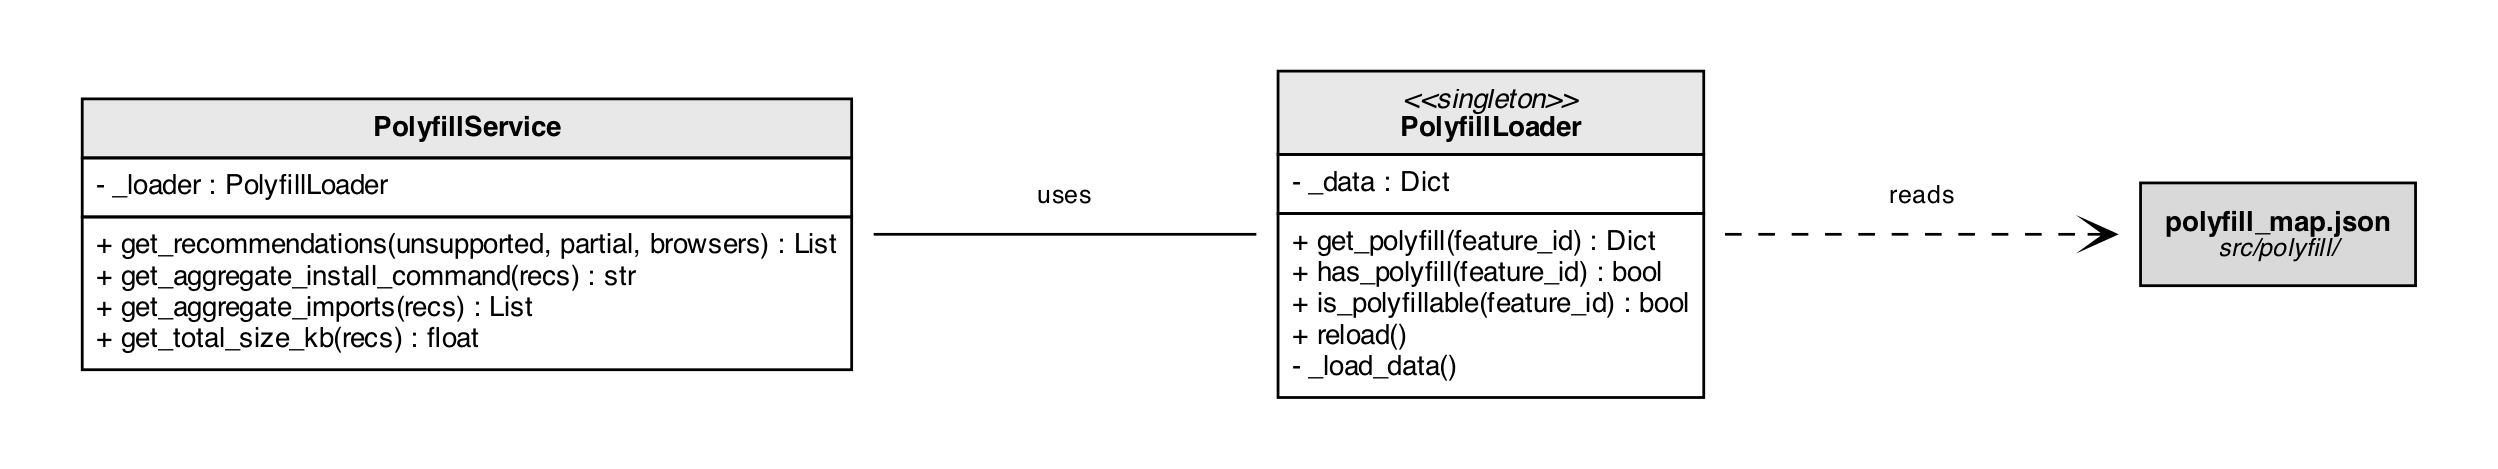
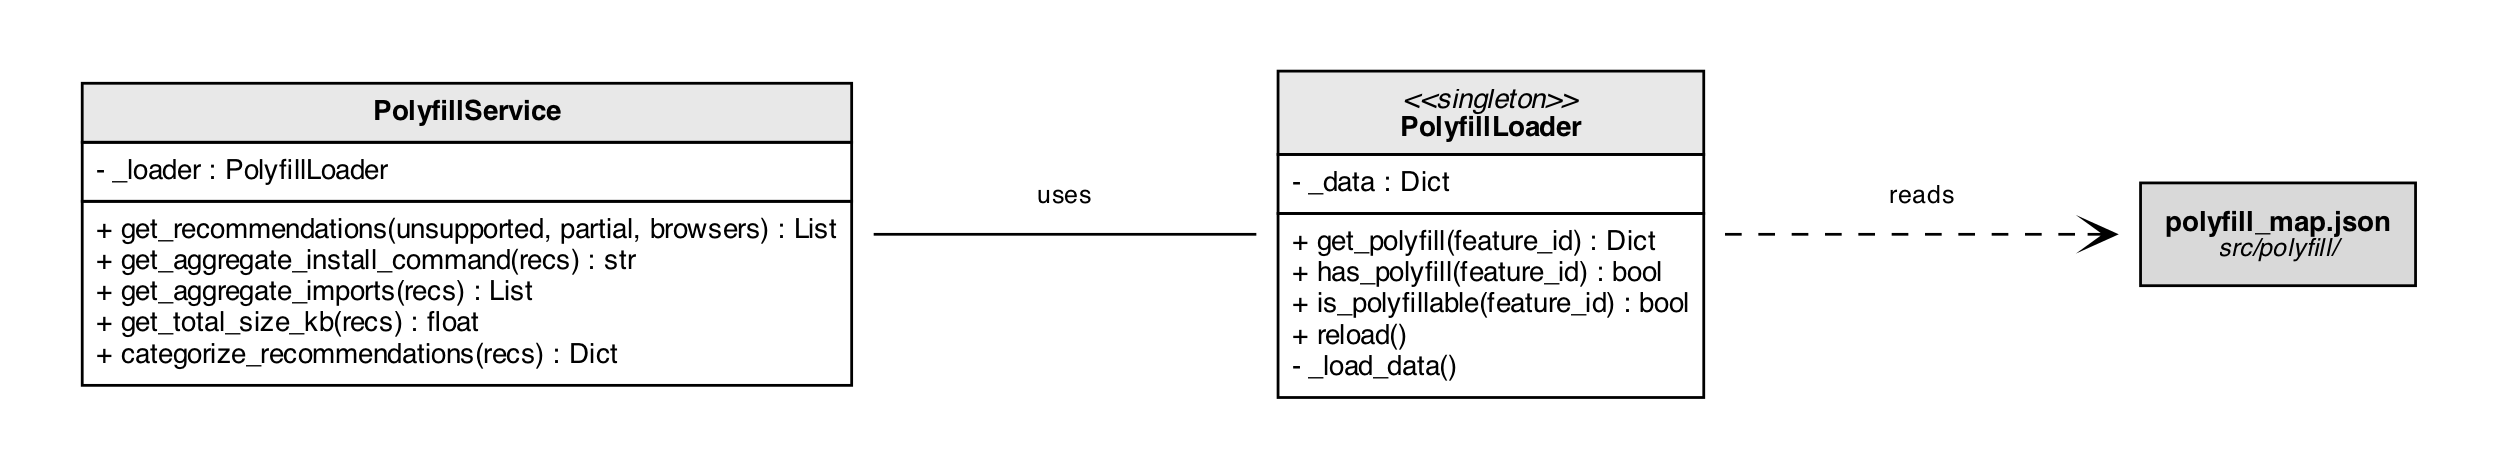
diagrams improved

Changed region(s): [[0.0312, 0.1493, 0.3435, 0.8358]]

diff --git a/docs/diagrams/scripts/generate_uml.py b/docs/diagrams/scripts/generate_uml.py
@@ -103,7 +103,8 @@ def build():
          '- _build_results_view()',
          '- _build_history_view()',
          '- _build_settings_view()',
-         '- _on_files_dropped(files)']))
+         '- _on_files_dropped(files)',
+         '- ...  (35 private methods total)']))
 
     g.node('ExportManager', class_box('ExportManager',
         ['+ parent : CTk'],
@@ -205,7 +206,8 @@ def build():
          '- _parse_js_files(files)',
          '- _check_compatibility(browsers) : Dict',
          '- _calculate_scores(results, browsers) : Dict',
-         '- _generate_report(results, scores, browsers) : Dict'],
+         '- _generate_report(results, scores, browsers) : Dict',
+         '- ...  (10 private methods total)'],
         stereotype='orchestrator'))
 
     # ── Services ────────────────────────────────────────
@@ -217,7 +219,8 @@ def build():
          '+ check_npm_update() : Dict',
          '+ download_npm_update(callback) : Dict',
          '+ get_database_info() : Dict',
-         '+ get_local_npm_version() : str']))
+         '+ get_local_npm_version() : str',
+         '+ ...  (8 public methods total)']))
 
     g.node('WebFeaturesManager', class_box('WebFeaturesManager',
         ['- _data : Dict',
@@ -225,7 +228,8 @@ def build():
         ['+ download() : bool',
          '+ has_data() : bool',
          '+ get_baseline_status(feature_id) : Dict',
-         '+ get_baseline_summary(features) : Dict']))
+         '+ get_baseline_summary(features) : Dict',
+         '+ ...  (5 public methods total)']))
 
     g.node('ConfigManager', class_box('ConfigManager',
         ['- _config : Dict',
@@ -236,7 +240,8 @@ def build():
          '+ ai_config : Dict (property)',
          '+ get(key, default) : Any',
          '+ to_dict() : Dict',
-         '+ create_default_config(dir) : str']))
+         '+ create_default_config(dir) : str',
+         '+ ...  (8 public methods total)']))
 
     g.node('AIFixService', class_box('AIFixService',
         ['- _api_key : str',
@@ -247,14 +252,16 @@ def build():
          '+ get_fix_suggestions(features, type, browsers) : List',
          '- _build_prompt(features, type) : str',
          '- _call_api(prompt) : str',
-         '- _parse_response(raw, features) : List']))
+         '- _parse_response(raw, features) : List',
+         '- ...  (5 private methods total)']))
 
     g.node('PolyfillService', class_box('PolyfillService',
         ['- _loader : PolyfillLoader'],
         ['+ get_recommendations(unsupported, partial, browsers) : List',
          '+ get_aggregate_install_command(recs) : str',
          '+ get_aggregate_imports(recs) : List',
-         '+ get_total_size_kb(recs) : float']))
+         '+ get_total_size_kb(recs) : float',
+         '+ categorize_recommendations(recs) : Dict']))
 
     g.node('PolyfillLoader', class_box('PolyfillLoader',
         ['- _data : Dict'],
@@ -277,7 +284,8 @@ def build():
          '+ parse_multiple_files(paths) : Set[str]',
          '+ get_detailed_report() : Dict',
          '+ get_statistics() : Dict',
-         '+ validate_html(content) : bool']))
+         '+ validate_html(content) : bool',
+         '- ...  (17 private methods total)']))
 
     g.node('CSSParser', class_box('CSSParser',
         ['+ features_found : Set[str]',
@@ -288,7 +296,8 @@ def build():
          '+ parse_multiple_files(paths) : Set[str]',
          '+ get_detailed_report() : Dict',
          '+ get_statistics() : Dict',
-         '+ validate_css(content) : bool']))
+         '+ validate_css(content) : bool',
+         '- ...  (5 private methods total)']))
 
     g.node('JSParser', class_box('JavaScriptParser',
         ['+ features_found : Set[str]',
@@ -299,7 +308,8 @@ def build():
          '+ parse_multiple_files(paths) : Set[str]',
          '+ get_detailed_report() : Dict',
          '+ get_statistics() : Dict',
-         '+ validate_javascript(content) : bool']))
+         '+ validate_javascript(content) : bool',
+         '- ...  (13 private methods total)']))
 
     g.node('CustomRulesLoader', class_box('CustomRulesLoader',
         ['- _css_rules : Dict',
@@ -318,7 +328,8 @@ def build():
         ['+ analyze(features, browsers) : Dict',
          '- _analyze_browser(features, browser, ver) : Dict',
          '- _calculate_overall_score(scores) : float',
-         '- _calculate_severity(status, total) : str']))
+         '- _calculate_severity(status, total) : str',
+         '- ...  (6 private methods total)']))
 
     g.node('CompatibilityScorer', class_box('CompatibilityScorer',
         ['+ browser_weights : Dict',
@@ -338,7 +349,8 @@ def build():
          '+ check_support(feature, browser, ver) : str',
          '+ get_all_features() : List[str]',
          '+ get_feature_info(feature_id) : Dict',
-         '+ get_browser_versions(browser) : List[str]'],
+         '+ get_browser_versions(browser) : List[str]',
+         '- ...  (5 private methods total)'],
         stereotype='singleton'))
 
     # ── Database Layer ──────────────────────────────────
@@ -350,7 +362,8 @@ def build():
          '+ get_analysis_by_id(id) : Analysis',
          '+ delete_analysis(id) : bool',
          '+ clear_all() : int',
-         '+ get_count(file_type) : int']))
+         '+ get_count(file_type) : int',
+         '+ ...  (7 public methods total)']))
 
     g.node('StatisticsService', class_box('StatisticsService',
         ['- _conn : Connection'],
@@ -362,7 +375,8 @@ def build():
          '+ get_top_problematic_features(limit) : List',
          '+ get_grade_distribution() : Dict',
          '+ get_file_type_distribution() : Dict',
-         '+ get_summary_statistics() : Dict']))
+         '+ get_summary_statistics() : Dict',
+         '+ ...  (13 public methods total)']))
 
     # ── Data Models ─────────────────────────────────────
 

diff --git a/docs/diagrams/scripts/generate_sub_analysis.py b/docs/diagrams/scripts/generate_sub_analysis.py
@@ -74,12 +74,14 @@ def build():
          '+ scorer : CompatibilityScorer',
          '+ all_features : Set[str]'],
         ['+ run_analysis(html, css, js, browsers) : Dict',
+         '+ ...  (2 public methods total)',
          '- _parse_html_files(files)',
          '- _parse_css_files(files)',
          '- _parse_js_files(files)',
          '- _check_compatibility(browsers) : Dict',
          '- _calculate_scores(results, browsers) : Dict',
-         '- _generate_report(results, scores, browsers) : Dict'],
+         '- _generate_report(results, scores, browsers) : Dict',
+         '- ...  (10 private methods total)'],
         stereotype='orchestrator'))
 
     # ── Row 3: Parsers + Engine ─────────────────────────
@@ -87,28 +89,36 @@ def build():
     g.node('HTMLParser', cn('HTMLParser',
         ['+ features_found : Set[str]'],
         ['+ parse_file(path) : Set[str]',
-         '+ parse_string(html) : Set[str]']))
+         '+ parse_string(html) : Set[str]',
+         '+ ...  (6 public methods total)',
+         '- ...  (17 private methods total)']))
 
     g.node('CSSParser', cn('CSSParser',
         ['+ features_found : Set[str]'],
         ['+ parse_file(path) : Set[str]',
-         '+ parse_string(css) : Set[str]']))
+         '+ parse_string(css) : Set[str]',
+         '+ ...  (6 public methods total)',
+         '- ...  (5 private methods total)']))
 
     g.node('JSParser', cn('JavaScriptParser',
         ['+ features_found : Set[str]'],
         ['+ parse_file(path) : Set[str]',
-         '+ parse_string(js) : Set[str]']))
+         '+ parse_string(js) : Set[str]',
+         '+ ...  (6 public methods total)',
+         '- ...  (13 private methods total)']))
 
     g.node('CompatibilityAnalyzer', cn('CompatibilityAnalyzer',
         ['+ database : CanIUseDatabase'],
         ['+ analyze(features, browsers) : Dict',
-         '- _calculate_severity(status, total) : str']))
+         '- _calculate_severity(status, total) : str',
+         '- ...  (6 private methods total)']))
 
     g.node('CompatibilityScorer', cn('CompatibilityScorer',
         ['+ browser_weights : Dict',
          '+ STATUS_SCORES : Dict'],
         ['+ calculate_simple_score(status) : float',
-         '+ calculate_weighted_score(status) : Dict']))
+         '+ calculate_weighted_score(status) : Dict',
+         '+ ...  (3 public methods total)']))
 
     # ── Row 4: Database ─────────────────────────────────
 
@@ -117,7 +127,9 @@ def build():
          '+ loaded : bool'],
         ['+ load() : bool',
          '+ check_support(feature, browser, ver) : str',
-         '+ get_feature_info(feature_id) : Dict'],
+         '+ get_feature_info(feature_id) : Dict',
+         '+ ...  (6 public methods total)',
+         '- ...  (5 private methods total)'],
         stereotype='singleton'))
 
     # ═══ RELATIONSHIPS ═══════════════════════════════════

diff --git a/docs/diagrams/scripts/generate_sub_parsers.py b/docs/diagrams/scripts/generate_sub_parsers.py
@@ -59,7 +59,8 @@ def build():
          '- _detect_attributes(soup)',
          '- _detect_attribute_values(soup)',
          '- _detect_special_patterns(soup)',
-         '- _find_unrecognized_patterns(soup)']))
+         '- _find_unrecognized_patterns(soup)',
+         '- ...  (17 private methods total)']))
 
     g.node('CSSParser', cn('CSSParser',
         ['+ features_found : Set[str]',
@@ -75,7 +76,8 @@ def build():
          '- _extract_components(rules) : Tuple',
          '- _build_matchable_text(decl, rules, sel) : str',
          '- _detect_features(css_content)',
-         '- _find_unrecognized_patterns_structured(decl, rules)']))
+         '- _find_unrecognized_patterns_structured(decl, rules)',
+         '- ...  (5 private methods total)']))
 
     g.node('JSParser', cn('JavaScriptParser',
         ['+ features_found : Set[str]',
@@ -95,7 +97,8 @@ def build():
          '- _detect_ast_api_features(root, src)',
          '- _build_matchable_text_from_ast(root, src) : str',
          '- _detect_features(js_content)',
-         '- _find_unrecognized_patterns(js_content)']))
+         '- _find_unrecognized_patterns(js_content)',
+         '- ...  (13 private methods total)']))
 
     g.node('CustomRulesLoader', cn('CustomRulesLoader',
         ['- _css_rules : Dict',

diff --git a/docs/diagrams/scripts/generate_sub_database.py b/docs/diagrams/scripts/generate_sub_database.py
@@ -50,14 +50,17 @@ def build():
          '+ get_all_analyses(limit) : List',
          '+ get_analysis_by_id(id) : Analysis',
          '+ delete_analysis(id) : bool',
-         '+ clear_all() : int']))
+         '+ clear_all() : int',
+         '+ get_count(file_type) : int',
+         '+ ...  (7 public methods total)']))
 
     g.node('StatisticsService', cn('StatisticsService',
         ['- _conn : Connection'],
         ['+ get_average_score() : float',
          '+ get_score_trend(days) : List',
          '+ get_grade_distribution() : Dict',
-         '+ get_summary_statistics() : Dict']))
+         '+ get_summary_statistics() : Dict',
+         '+ ...  (13 public methods total)']))
 
     g.node('SQLiteDB', en('SQLite Database', 'crossguard.db'))
 

diff --git a/docs/diagrams/scripts/generate_sub_polyfill.py b/docs/diagrams/scripts/generate_sub_polyfill.py
@@ -53,7 +53,8 @@ def build():
         ['+ get_recommendations(unsupported, partial, browsers) : List',
          '+ get_aggregate_install_command(recs) : str',
          '+ get_aggregate_imports(recs) : List',
-         '+ get_total_size_kb(recs) : float']))
+         '+ get_total_size_kb(recs) : float',
+         '+ categorize_recommendations(recs) : Dict']))
 
     g.node('PolyfillLoader', cn('PolyfillLoader',
         ['- _data : Dict'],

diff --git a/docs/diagrams/scripts/generate_sub_gui.py b/docs/diagrams/scripts/generate_sub_gui.py
@@ -56,7 +56,8 @@ def build():
          '- _build_history_view()',
          '- _build_settings_view()',
          '- _on_files_dropped(files)',
-         '- _on_navigate(view_id)']))
+         '- _on_navigate(view_id)',
+         '- ...  (35 private methods total)']))
 
     g.node('ExportManager', cn('ExportManager',
         ['+ parent : CTk'],
